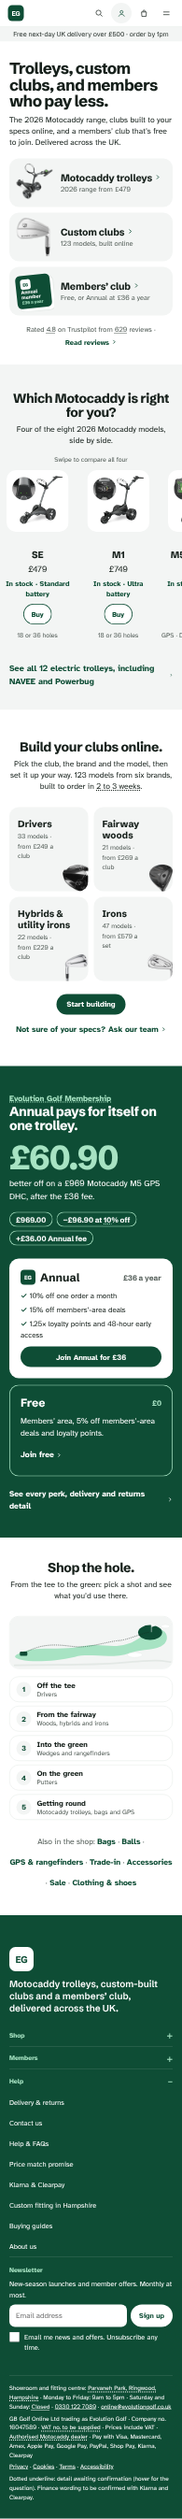
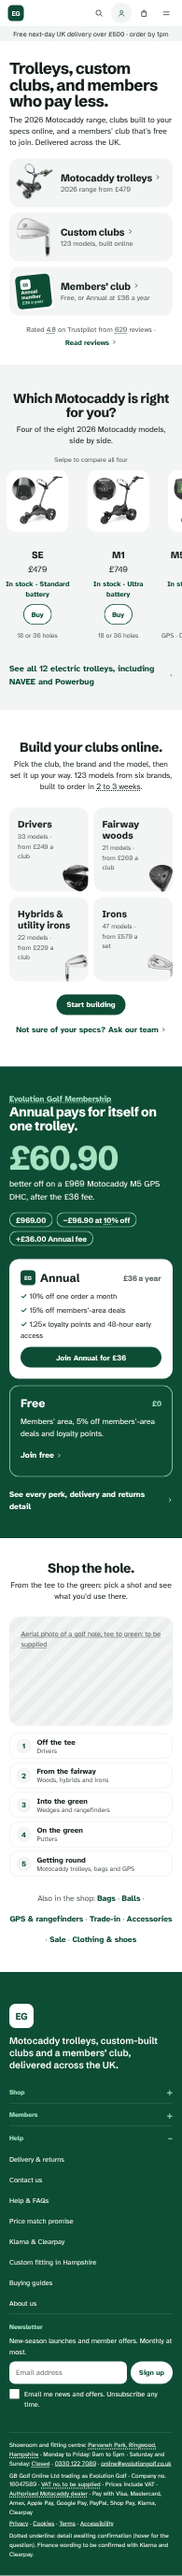
Shop the hole: real aerial photo slot (placeholder until supplied) with photo brief
- Drawing replaced by a photo slot (catalogue.holePhoto); clearly marked placeholder until a
  licensed aerial photo arrives; white pins with shadow for contrast on grass and sand
- docs/briefs/shop-the-hole-photo.md: what to shoot or source, format, rights, next steps

Claude-Session: https://claude.ai/code/session_01FmqF5bQkMPdwjJJ5PpCtXL

diff --git a/mockups/dist/concepts/showroomplus2.html b/mockups/dist/concepts/showroomplus2.html
@@ -107,19 +107,9 @@
 <section class="h" id="hole" aria-labelledby="h-t">
   <div class="p-copy"><h2 id="h-t">Shop the hole.</h2>
     <p class="p-sub">From the tee to the green: pick a shot and see what you’d use there.</p></div>
-  <div class="h-course" aria-hidden="true">
-    <svg class="h-map" viewBox="0 0 1000 320" aria-hidden="true" focusable="false">
-  <rect width="1000" height="320" rx="0" fill="#f3f5f4"/>
-  <path d="M30 300 C260 292 470 304 690 284 S930 270 990 280" fill="none" stroke="#e3e8e5" stroke-width="10" stroke-linecap="round"/>
-  <path d="M40 236 C140 170 300 214 430 186 C560 158 620 200 720 170 C800 146 830 96 890 80 C960 64 990 130 950 170 C900 214 820 196 740 224 C620 266 500 222 400 248 C280 276 140 282 70 266 C34 258 24 248 40 236Z" fill="#a7e3c3"/>
-  <ellipse cx="864" cy="98" rx="74" ry="46" fill="#0e4d35"/>
-  <ellipse cx="770" cy="236" rx="46" ry="15" fill="#fff" stroke="#e3e8e5" stroke-width="2"/>
-  <ellipse cx="958" cy="60" rx="26" ry="11" fill="#fff" stroke="#e3e8e5" stroke-width="2"/>
-  <rect x="62" y="216" width="46" height="26" rx="6" fill="#0e4d35"/>
-  <path d="M90 224 C220 150 330 180 410 186 S620 150 670 148 S820 100 860 96" fill="none" stroke="#16201b" stroke-width="3" stroke-dasharray="2 10" stroke-linecap="round"/>
-  <line x1="872" y1="96" x2="872" y2="44" stroke="#fff" stroke-width="3"/><path d="M872 44 L904 54 L872 64Z" fill="#fff"/>
-</svg>
-    <span class="h-pin" style="left:9%;top:70%">1</span><span class="h-pin" style="left:41%;top:58%">2</span><span class="h-pin" style="left:67%;top:46%">3</span><span class="h-pin" style="left:86%;top:30%">4</span><span class="h-pin" style="left:52%;top:90%">5</span>
+  <div class="h-course h-course--photo">
+    <div class="h-photo h-photo--todo" role="img" aria-label="Photo to come: aerial view of a golf hole"><span class="q" title="To be confirmed: Owner to supply a licensed aerial photo (see docs/briefs/shop-the-hole-photo.md). Pin positions in ZONES may need nudging to match it.">Aerial photo of a golf hole, tee to green: to be supplied</span></div>
+    <span class="h-pin" style="left:9%;top:70%" aria-hidden="true">1</span><span class="h-pin" style="left:41%;top:58%" aria-hidden="true">2</span><span class="h-pin" style="left:67%;top:46%" aria-hidden="true">3</span><span class="h-pin" style="left:86%;top:30%" aria-hidden="true">4</span><span class="h-pin" style="left:52%;top:90%" aria-hidden="true">5</span>
   </div>
   <ul class="h-stops" aria-label="Shop by shot">
     <li><a href="#"><b aria-hidden="true">1</b><span>Off the tee<small>Drivers</small></span></a></li><li><a href="#"><b aria-hidden="true">2</b><span>From the fairway<small>Woods, hybrids and irons</small></span></a></li><li><a href="#"><b aria-hidden="true">3</b><span>Into the green<small>Wedges and rangefinders</small></span></a></li><li><a href="#"><b aria-hidden="true">4</b><span>On the green<small>Putters</small></span></a></li><li><a href="#"><b aria-hidden="true">5</b><span>Getting round<small>Motocaddy trolleys, bags and GPS</small></span></a></li>

diff --git a/mockups/dist/concepts/assets/css/concepts/v2pages.css b/mockups/dist/concepts/assets/css/concepts/v2pages.css
@@ -484,6 +484,15 @@ main:not(.v) { gap: 0; padding: 0; }
 .p-door__img img { position: absolute; inset: 0; width: 100%; height: 100%; max-width: none; object-fit: contain; }
 .p-door__img .p-mcard { position: relative; }
 
+/* shop the hole: real aerial photo (placeholder until the owner supplies one) */
+.h-course--photo { position: relative; aspect-ratio: 2 / 1; background: var(--mist); }
+.h-photo { position: absolute; inset: 0; width: 100%; height: 100%; object-fit: cover; }
+.h-photo--todo { display: grid; place-items: center; padding: 24px; text-align: center; font-size: 15px; color: var(--slate);
+  background: repeating-linear-gradient(135deg, var(--mist) 0 14px, #ebeeec 14px 28px); }
+.h-course--photo .h-pin { background: #fff; color: var(--green); border: 0; box-shadow: 0 6px 18px rgba(0,0,0,0.28); }
+@media (max-width: 899px) { .h-course--photo { aspect-ratio: 3 / 2; } }
+.h-photo--todo { place-items: start; text-align: left; }
+
 /* ===== v2 page templates: collection + product (appended to showroomplus2.css) ===== */
 .v { display: block; padding: 0 var(--g); max-width: 1440px; margin: 0 auto; }
 .v-crumbs ol { display: flex; flex-wrap: wrap; gap: 4px 8px; list-style: none; padding: 16px 0 0; font-size: 14px; color: var(--slate); }

diff --git a/mockups/assets/css/concepts/showroomplus2.css b/mockups/assets/css/concepts/showroomplus2.css
@@ -483,3 +483,12 @@ main:not(.v) { gap: 0; padding: 0; }
 .p-door__img { position: relative; }
 .p-door__img img { position: absolute; inset: 0; width: 100%; height: 100%; max-width: none; object-fit: contain; }
 .p-door__img .p-mcard { position: relative; }
+
+/* shop the hole: real aerial photo (placeholder until the owner supplies one) */
+.h-course--photo { position: relative; aspect-ratio: 2 / 1; background: var(--mist); }
+.h-photo { position: absolute; inset: 0; width: 100%; height: 100%; object-fit: cover; }
+.h-photo--todo { display: grid; place-items: center; padding: 24px; text-align: center; font-size: 15px; color: var(--slate);
+  background: repeating-linear-gradient(135deg, var(--mist) 0 14px, #ebeeec 14px 28px); }
+.h-course--photo .h-pin { background: #fff; color: var(--green); border: 0; box-shadow: 0 6px 18px rgba(0,0,0,0.28); }
+@media (max-width: 899px) { .h-course--photo { aspect-ratio: 3 / 2; } }
+.h-photo--todo { place-items: start; text-align: left; }

diff --git a/mockups/dist/concepts/assets/css/concepts/showroomplus2.css b/mockups/dist/concepts/assets/css/concepts/showroomplus2.css
@@ -483,3 +483,12 @@ main:not(.v) { gap: 0; padding: 0; }
 .p-door__img { position: relative; }
 .p-door__img img { position: absolute; inset: 0; width: 100%; height: 100%; max-width: none; object-fit: contain; }
 .p-door__img .p-mcard { position: relative; }
+
+/* shop the hole: real aerial photo (placeholder until the owner supplies one) */
+.h-course--photo { position: relative; aspect-ratio: 2 / 1; background: var(--mist); }
+.h-photo { position: absolute; inset: 0; width: 100%; height: 100%; object-fit: cover; }
+.h-photo--todo { display: grid; place-items: center; padding: 24px; text-align: center; font-size: 15px; color: var(--slate);
+  background: repeating-linear-gradient(135deg, var(--mist) 0 14px, #ebeeec 14px 28px); }
+.h-course--photo .h-pin { background: #fff; color: var(--green); border: 0; box-shadow: 0 6px 18px rgba(0,0,0,0.28); }
+@media (max-width: 899px) { .h-course--photo { aspect-ratio: 3 / 2; } }
+.h-photo--todo { place-items: start; text-align: left; }

diff --git a/docs/briefs/shop-the-hole-photo.md b/docs/briefs/shop-the-hole-photo.md
@@ -1,0 +1,32 @@
+# Photo brief: "Shop the hole" (homepage)
+
+One real aerial photo of a single golf hole, used behind the five "Shop the hole" stops: tee, fairway, approach, green and the walk between shots.
+
+## What the photo needs to show
+
+- **The whole hole, tee to green, in one frame.** A par 4 or a short par 5 works best.
+- **Something at each stop:**
+  - a clear tee box at one end
+  - the fairway
+  - one or two bunkers near the green
+  - the green with the flag
+  - a buggy path or walkway, ideally running along the bottom of the frame
+- **The hole running roughly left to right,** with the tee bottom-left and the green top-right. That matches the stops' order.
+- **A top-down or high-angle drone view,** with no people in shot and no visible branding apart from the course's own.
+- **Even daylight:** not harsh midday shadows, no frost or heavy rain.
+
+## Format
+
+- Landscape, at least **2400 × 1200 px** (2:1). On phones it's cropped to 3:2, so keep about 10% clear of important detail at the left and right edges.
+- JPG or high-quality WebP, under 600 KB after export. I can compress it if you send the original.
+
+## Rights
+
+- It must be **licensed for commercial web use.** If the club or the photographer owns it, get written permission, and confirm whether the photo should be credited and how.
+- A local course you have a relationship with is ideal. Name the course in the alt text only if you have permission.
+
+## What happens when it arrives
+
+1. I add it as `holePhoto.src` in `mockups/src/data/catalogue.json`. The placeholder disappears and the photo shows on the homepage, the canvas and the test site.
+2. I adjust the five pin positions (the `ZONES` x/y percentages in `showroomplus2.mjs`) to sit on the tee, fairway, approach, green and path in your photo.
+3. The white pins have a soft shadow, so they stay readable on grass and sand. I'll check the contrast on the final image.
